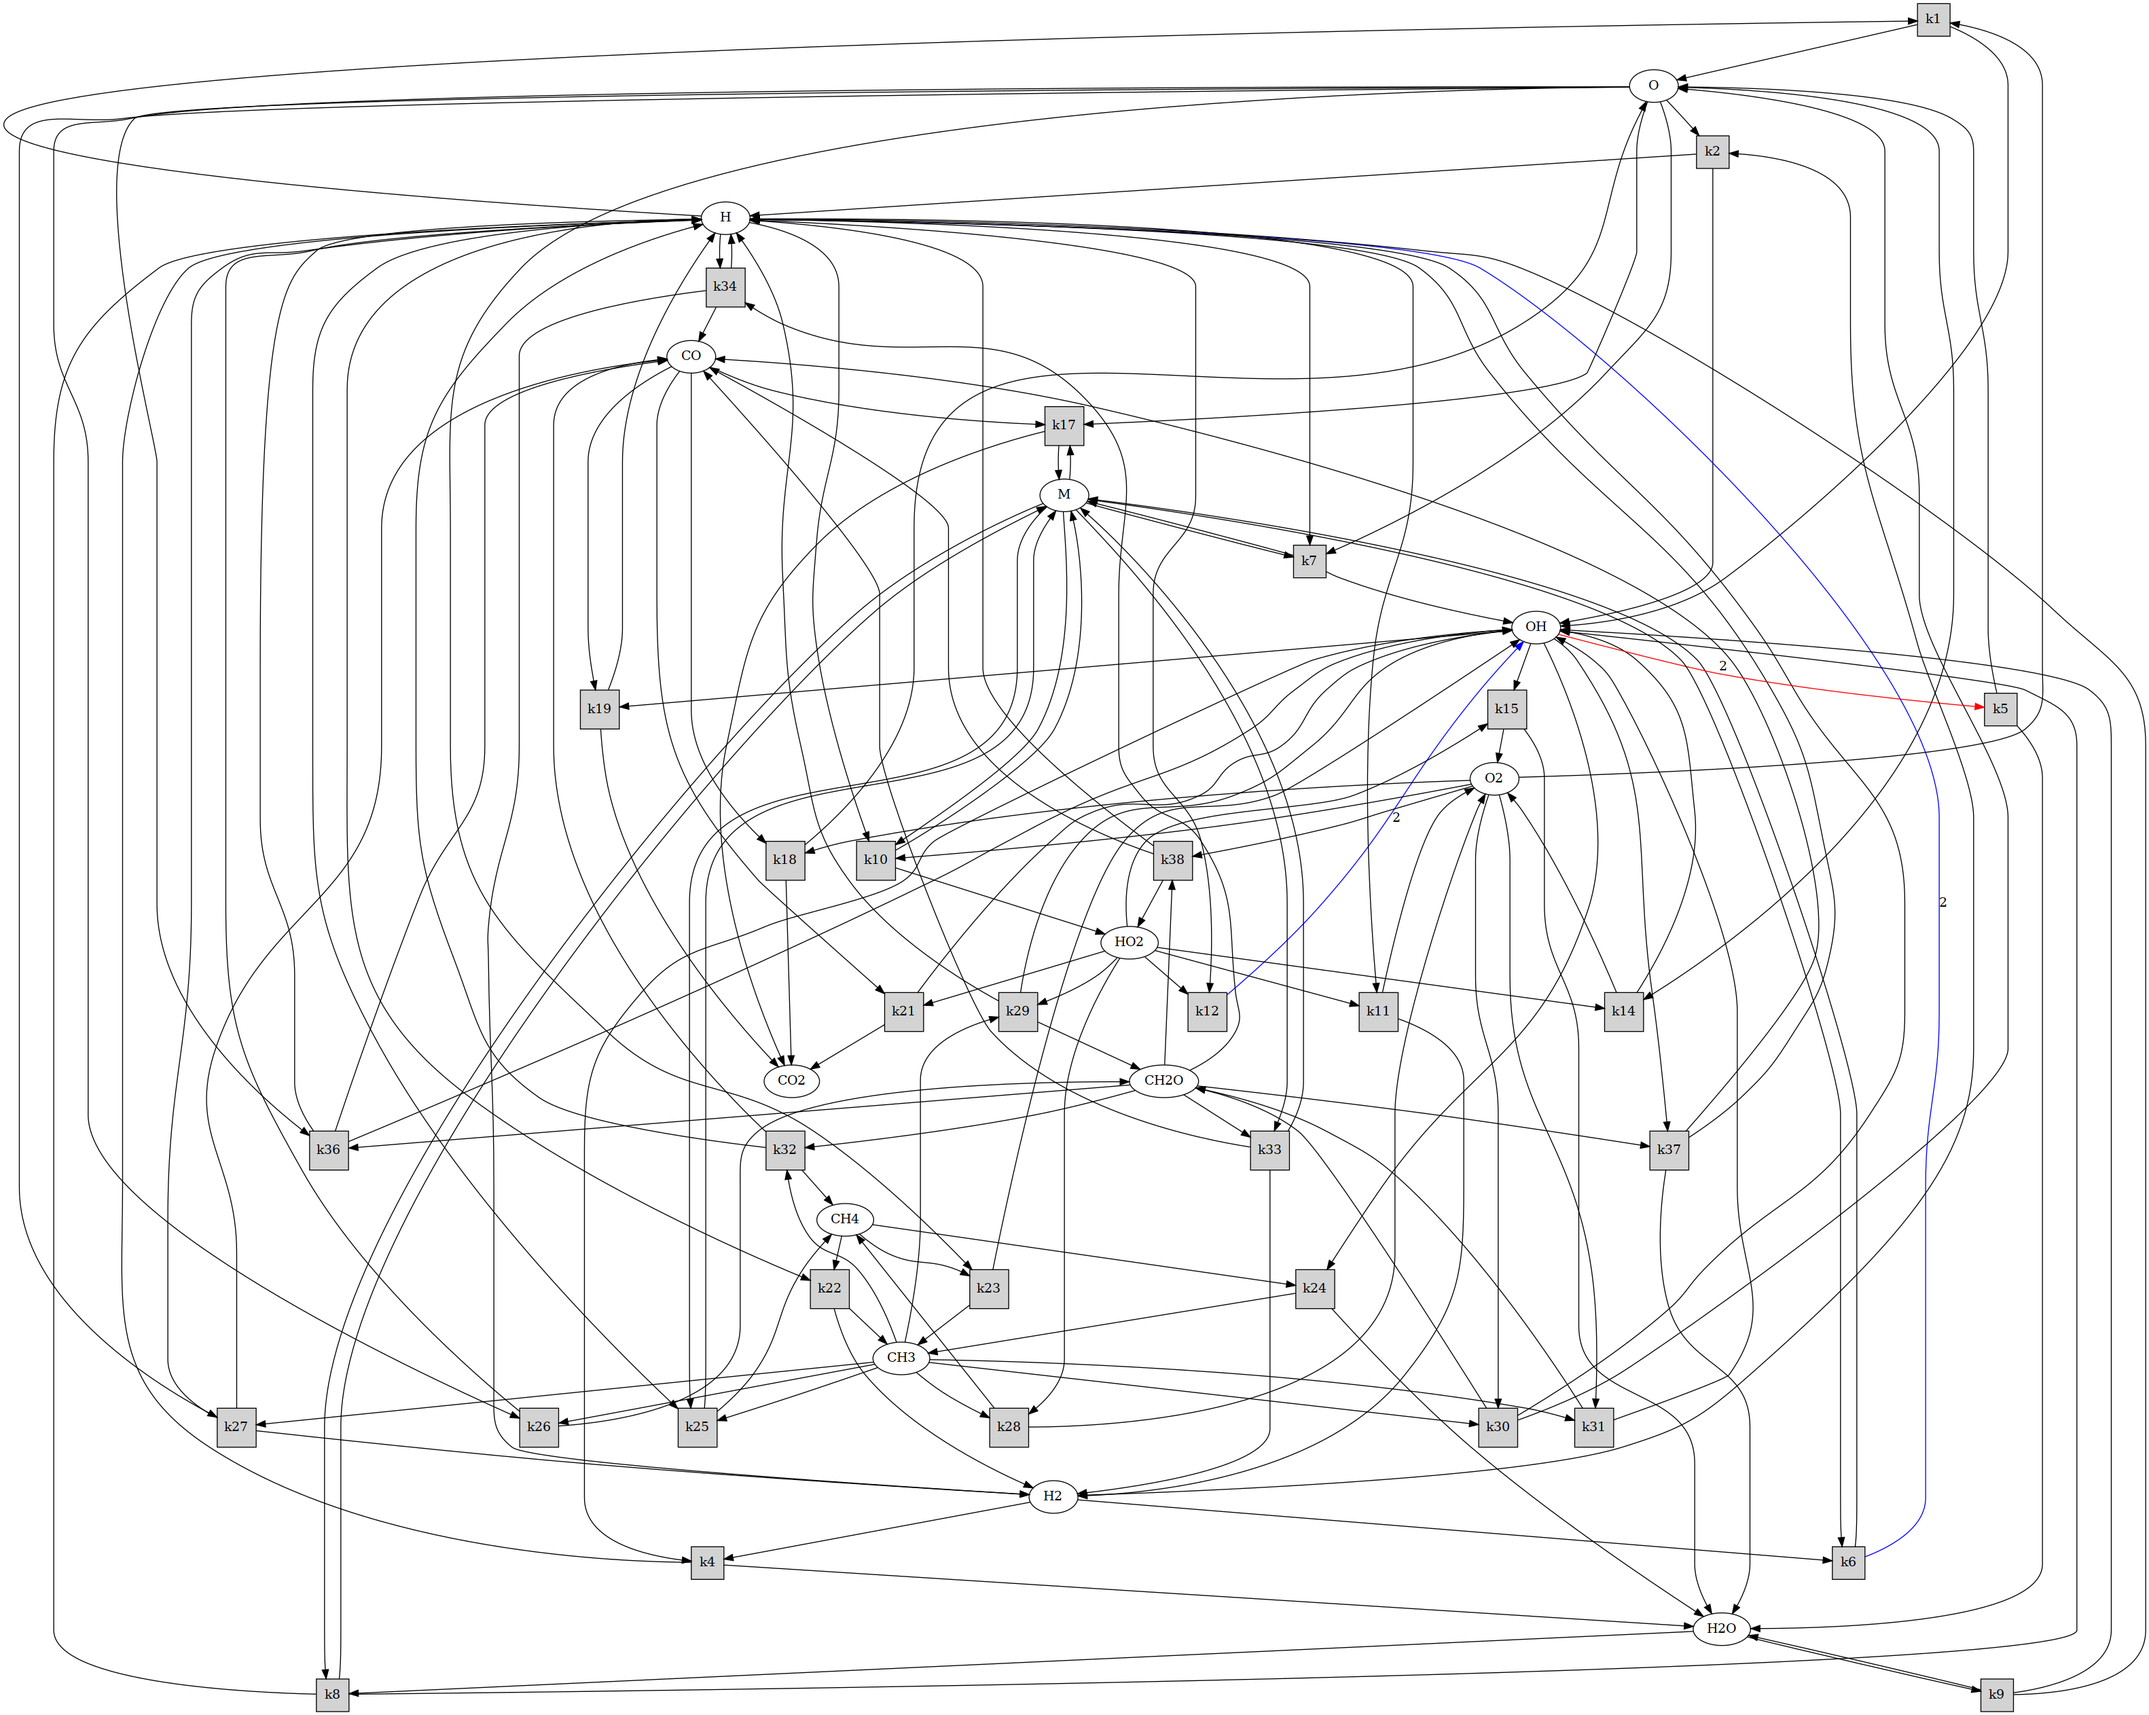
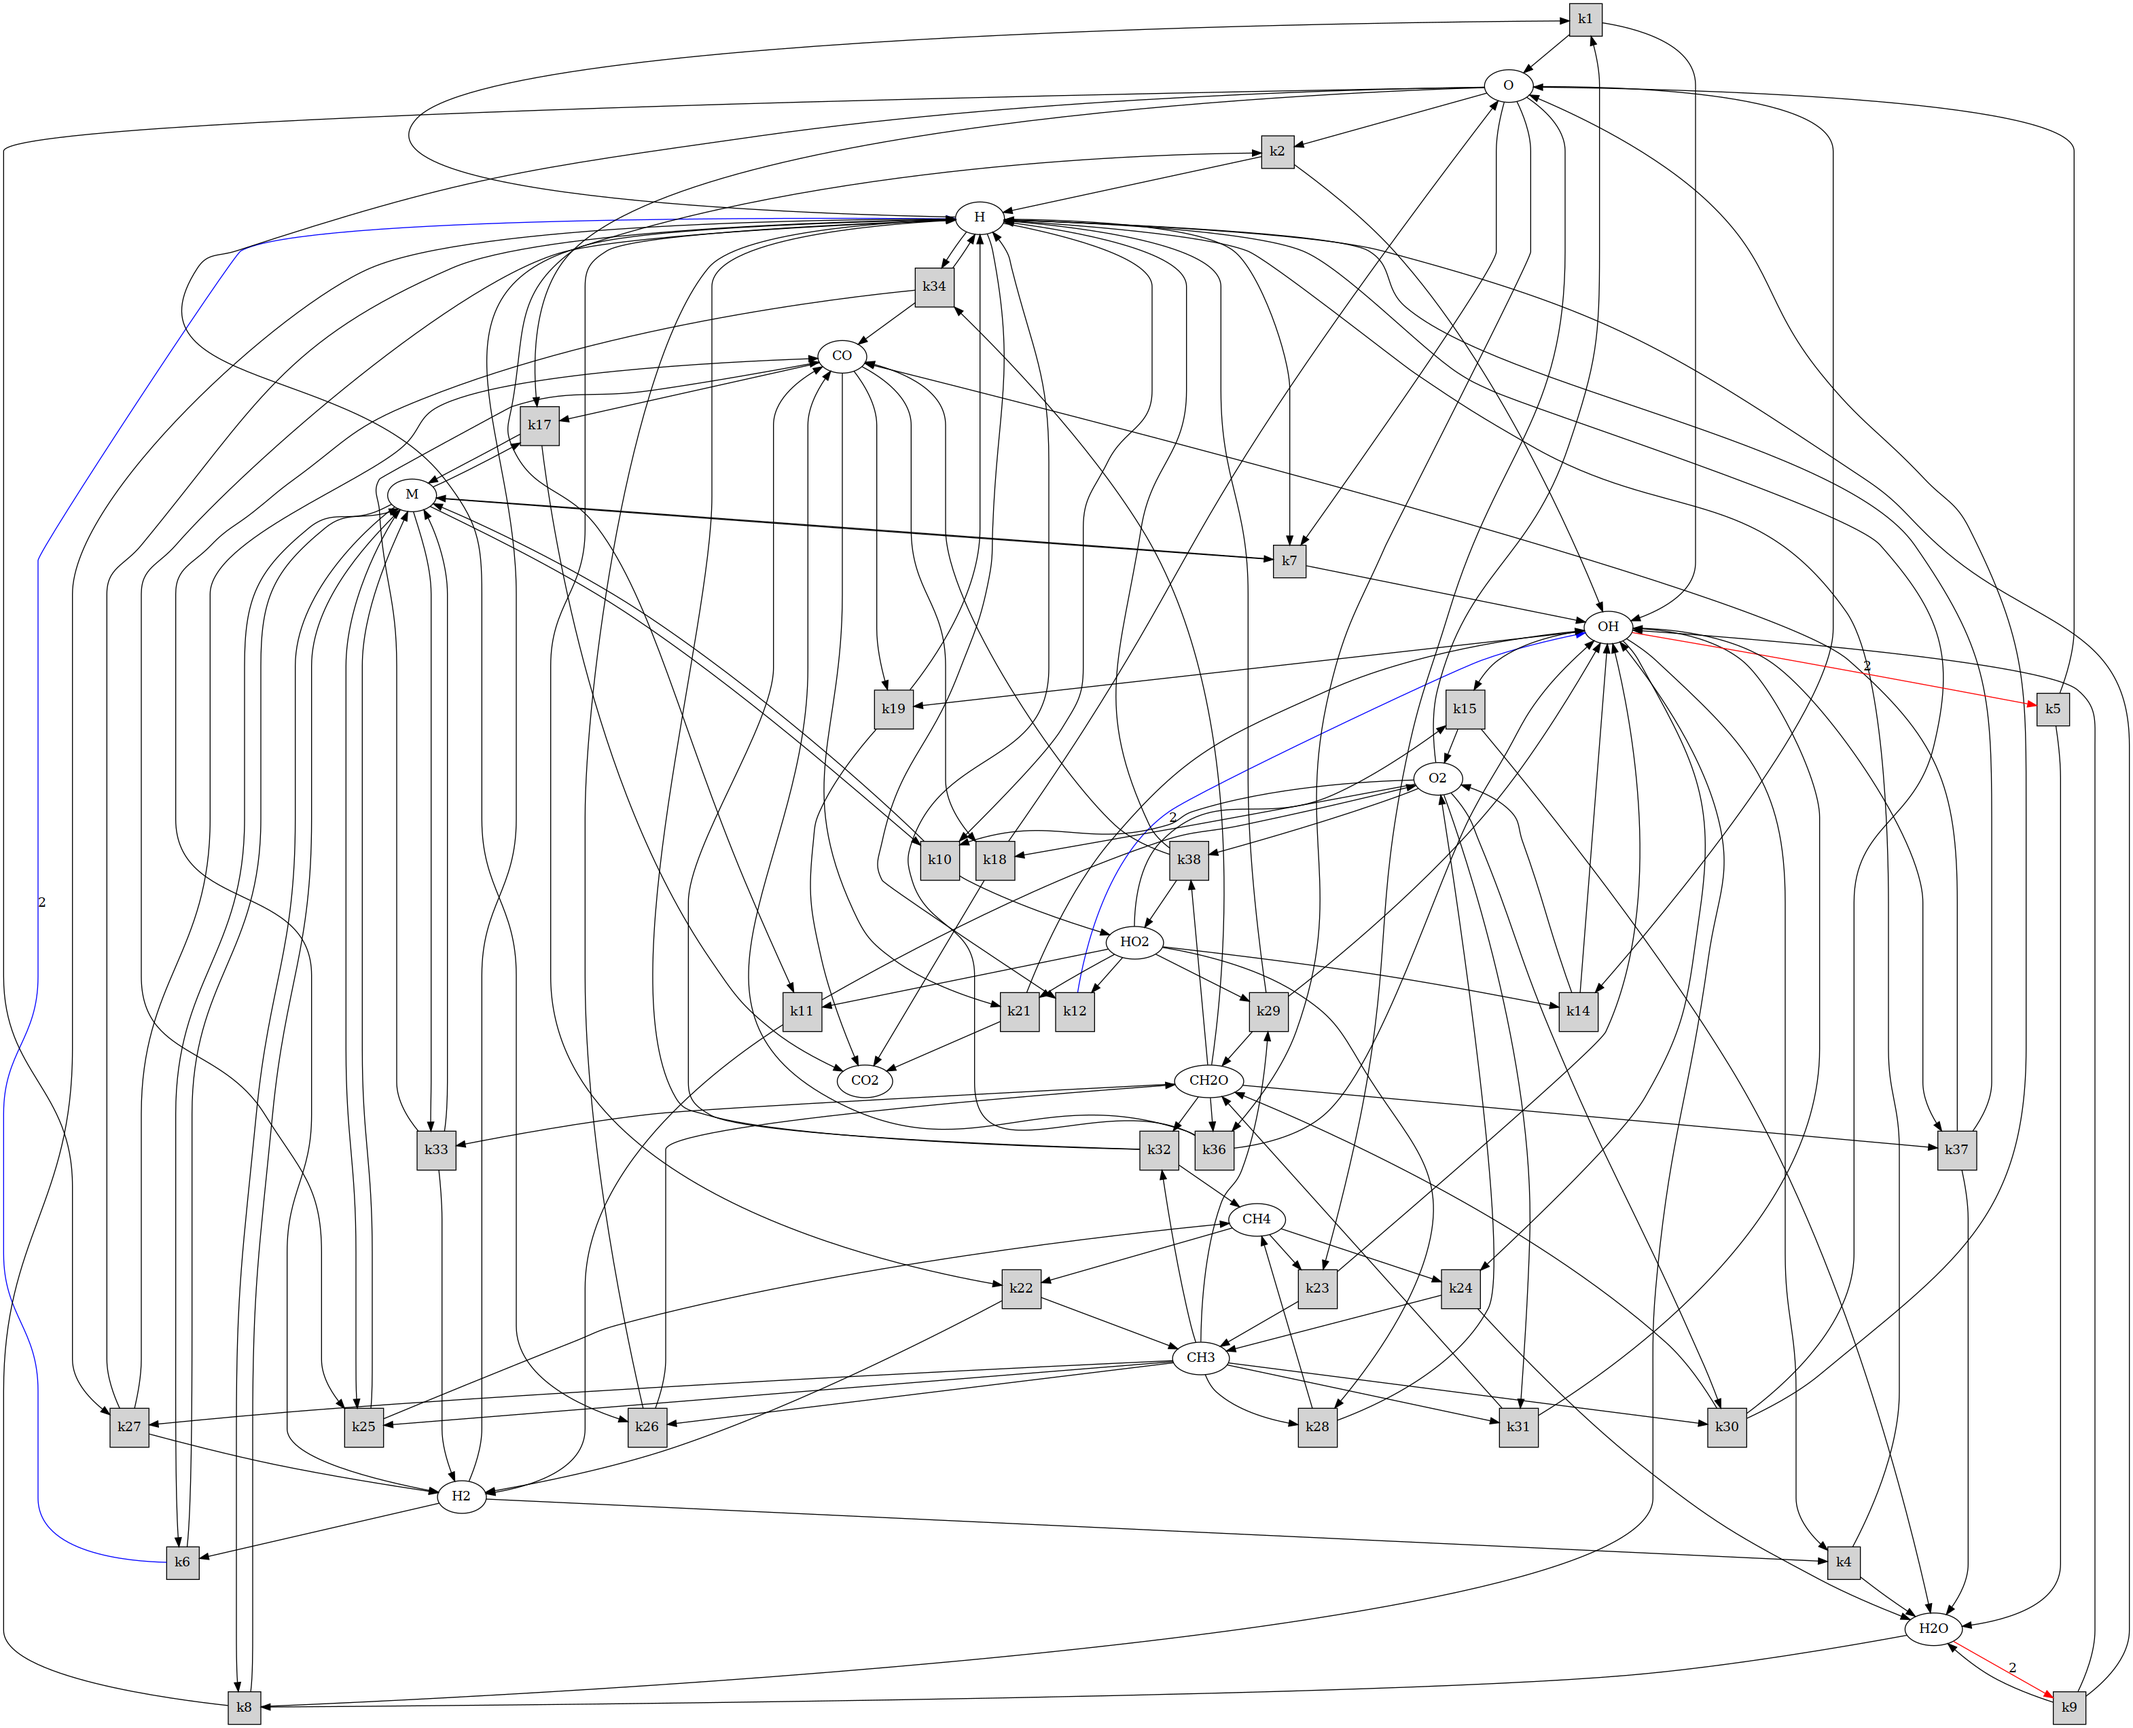
normal update

diff --git a/SVD_QSSA/graph/mechanism2graph.py b/SVD_QSSA/graph/mechanism2graph.py
@@ -3,11 +3,25 @@ import cantera as ct
 import pandas as pd
 import numpy as np
 import re
+from collections import defaultdict
+
 scheme_path = "/home/boyuan-yu/Documents/USC/research/log/SVD_QSSA/graph"
 plot_path = "/home/boyuan-yu/Documents/USC/research/log/SVD_QSSA/graph/graphviz"
 scheme = scheme_path+"/"+"FFCM1_skeletal.yaml"
 plot_name = "skeletal.gv"
 
+def remove_duplicates(spec, cnt):
+    '''This function removes the duplicates from the list of species and add duplicated corresponding coefficients'''
+    combined = defaultdict(int)
+    for spec, cnt in zip(spec,cnt):
+        combined[spec] += cnt
+        
+    # convert the defaultdict back to 2 lists
+    spec = list(combined.keys())
+    cnt = list(combined.values())
+    
+    return spec, cnt
+        
 def extract_species(reaction):
     '''This function extracts the species from the reaction expressed in string'''
     reaction = reaction.replace("(", "").replace(")", "")
@@ -38,7 +52,10 @@ def extract_species(reaction):
             prod_coef.append(num)
         else:
             prod_coef.append(1)
-            
+    
+    # remove duplicates from reac and prod and sum the coefficients
+    reac, reac_coef = remove_duplicates(reac, reac_coef)
+    prod, prod_coef = remove_duplicates(prod, prod_coef)
     return reac, prod, reac_coef, prod_coef
 
 def reaction_in_graph_statement(reac, prod, reac_coef, prod_coef, i):
